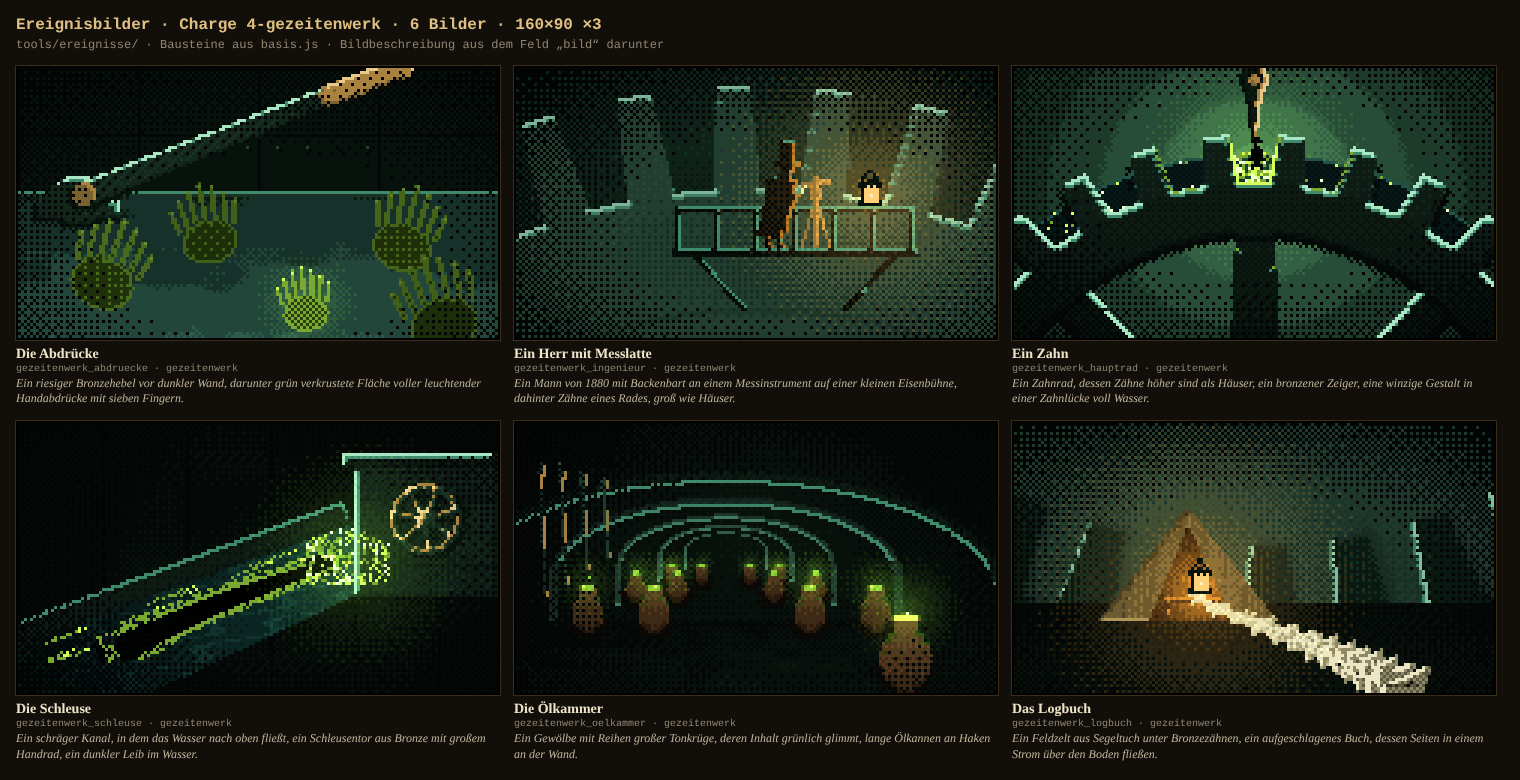
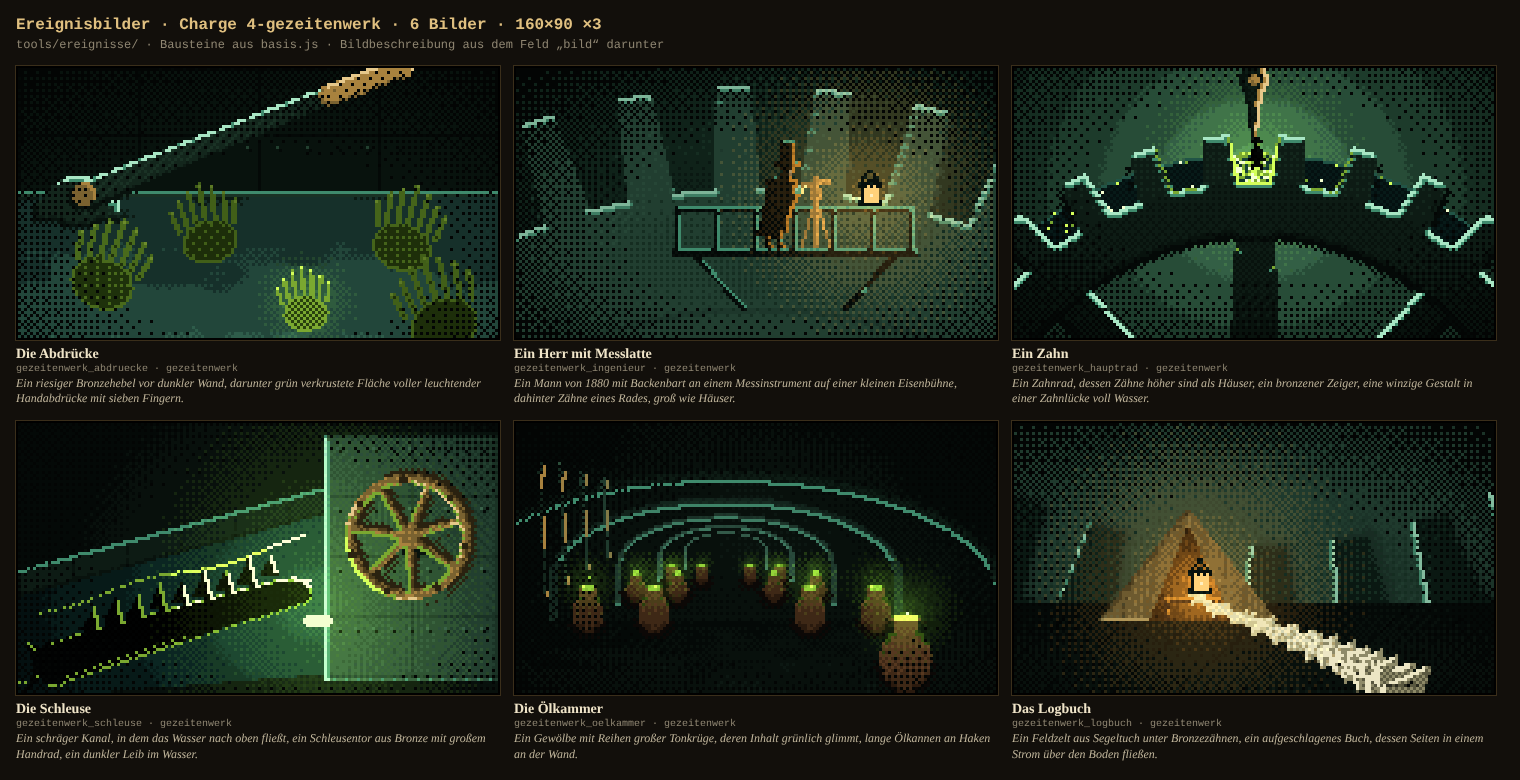
Zugabe: Ereignisbild Schleuse neu (Note 4)
Claude-Session: https://claude.ai/code/session_01TghvEfjLh3w7y1uAeKR46M

Changed region(s): [[0.0309, 0.5231, 0.3401, 0.8923], [0.0309, 0.7077, 0.0618, 0.7385]]

diff --git a/tools/ereignisse/bilder/gezeitenwerk.js b/tools/ereignisse/bilder/gezeitenwerk.js
@@ -173,41 +173,53 @@ module.exports = {
     // Ein schräger Kanal, in dem das Wasser nach oben fließt, ein Schleusentor aus Bronze mit großem Handrad, ein dunkler Leib im Wasser.
     gezeitenwerk_schleuse(K) {
       const { B } = K;
-      K.fuell(NASS, (x, y) => .2 + (B.fbm(x * .04, y * .04, K.seed, 2) - .5) * .2 + (x % 28 < 1 ? -.1 : 0));
-      // Kanal: von links unten schräg hinauf nach rechts zum Tor; Mauern links/rechts
-      const kan = K.maske(); kan.poly([[0, 90], [0, 74], [110, 34], [124, 40], [124, 52], [44, 90]]);
-      const tor = { x: 112, y0: 14, y1: 58 };
-      // Seitenwände des Kanals
-      const wand = K.maske(); wand.poly([[0, 66], [108, 26], [112, 34], [0, 76]]);
-      K.form(wand, 0, { k: BRONZE.slice(0, 6), r: RAND, ton: 1.8, fase: 1, rand: 1, L: [0, -1], muster: (x, y) => ((x + Math.round(y * 2.7)) % 14 < 1 ? -.8 : 0) });
-      // Wasser im Kanal: leuchtende Schlieren laufen bergauf (zum Tor hin heller)
-      const LW = (x, y) => Math.max(0, x / 124);
-      K.feld(0, 30, 130, 90, WASSER, (x, y) => kan.has(x, y) ? .15 + LW(x, y) * .55 + (Math.sin((x * .9 + y * 2.4) * .35 + Math.sin(y * .7) * 2) > .7 ? .2 : 0) : -1);
-      for (let i = 0; i < 22; i++) {
-        let x = K.r.f(4, 110), y = 0; const y0 = 74 - x * .37 + K.r.f(2, 14);
-        const len = K.r.f(4, 10);
-        for (let k = 0; k < len; k++) { const px = x + k * 1.6, py = y0 - k * .6; if (!kan.has(px, py)) break; K.set(px, py, k > len - 2 ? PHOS : PHOS_M); }
+      const gx = 102, gy = 60;   // Leuchten am Fuß des Tors, wo das Wasser in die Kammer drückt (die helle Stelle)
+      // Hintergrund: ruhiges, nasses Schwarzgrün
+      K.fuell(NASS, (x, y) => ruhig(.15 + Math.max(0, 1 - Math.hypot(x - gx, y - gy) / 110) * .35, NASS.length - 1));
+      // Kanal: von links unten schräg hinauf nach rechts zum Tor; obere Kanalmauer als Bronzeband
+      const steig = .27, oben = x => 58 - x * steig, unten = x => 92 - x * steig * .3;
+      const wand = K.maske(); wand.fn(0, 0, 104, 90, (x, y) => y < oben(x) && y >= oben(x) - 9);
+      K.form(wand, 0, { k: BRONZE.slice(0, 6), r: RAND, ton: 2, fase: 1, rand: 1, L: [0, -1], lichtVon: [gx, gy], muster: (x, y) => ((x % 18) < 1 ? -.9 : 0) });
+      const kan = K.maske(); kan.fn(0, 0, 104, 92, (x, y) => y >= oben(x) && y < unten(x));
+      // Wasser: ruhig, zum Tor hin heller
+      const LW = (x, y) => Math.pow(Math.max(0, 1 - Math.hypot(x - gx, (y - gy) * 1.3) / 120), 1.2);
+      K.feld(0, 0, 104, 92, WASSER, (x, y) => kan.has(x, y) ? ruhig(.12 + LW(x, y) * .75, WASSER.length - 1, .12) : -1);
+      // Zwei, drei lange Leuchtschlieren laufen bergauf, zum Tor hin heller
+      for (const [x0, dy, len] of [[4, 6, 92], [20, 20, 78], [0, 28, 60]]) {
+        for (let x = x0; x < x0 + len && x < 103; x++) {
+          const y = Math.round(oben(x) + dy + Math.sin(x * .12 + dy) * 1.2);
+          if (!kan.has(x, y)) continue;
+          const q = (x - x0) / len; if (B.bay(x, y) > .35 + q) continue;
+          K.set(x, y, q > .85 ? PHOS_K : q > .5 ? PHOS : PHOS_M);
+        }
       }
-      // Der dunkle Leib im Wasser: lang, regungslos, schräg im Strom vor dem Tor
-      const leib = K.maske(); leib.pfad([[38, 74], [52, 67], [68, 60], [84, 54], [98, 49]], 5.5, 3); leib.ell(101, 47, 5, 3.6);
-      leib.poly([[34, 76], [24, 72], [28, 80]]);   // Schwanzflosse
-      K.form(leib, 0, { k: ['#000000', '#010202', '#030505', '#060a08'], ton: 1, fase: 0, rand: 0, verlauf: -1 });
-      // Wasser schäumt leuchtend um den Leib, Kante zum Tor hin hell
-      for (let y = leib.y0 - 2; y <= leib.y1 + 2; y++) for (let x = leib.x0 - 2; x <= leib.x1 + 2; x++) if (!leib.has(x, y) && kan.has(x, y) && (leib.has(x, y + 2) || leib.has(x - 2, y)) && K.r() < .5) K.set(x, y, PHOS_M);
-      K.kante(leib, 118, 40, 110, [PHOS_M, PHOS_K], { min: -.2, nah: .5 });
-      // Das Schleusentor: Bronzeplatte, Nieten, das Handrad mit sieben Speichen und Fingermulden
-      const t = K.maske(); t.rect(tor.x, tor.y0, 48, tor.y1 - tor.y0); t.rect(tor.x - 4, tor.y0 - 4, 52, 5);
-      K.form(t, 0, { k: BRONZE, r: RAND, ton: 2.4, fase: 1, rand: 2, schatten: 2, L: [-.8, -.6], muster: (x, y) => ((y - tor.y0) % 11 < 1 ? -.8 : 0) + (B.fbm(x * .1, y * .1, 4, 2) - .5) * .8 });
-      const hx = 136, hy = 32, hr = 12;
-      const hrad = K.maske(); hrad.ell(hx, hy, hr, hr); hrad.ell(hx, hy, hr - 2.2, hr - 2.2, 0);
-      for (let i = 0; i < 7; i++) { const a = i / 7 * TAU - .3; hrad.kap(hx, hy, hx + Math.cos(a) * (hr - 1), hy + Math.sin(a) * (hr - 1), 1, .8); }
-      hrad.ell(hx, hy, 2.6, 2.6);
-      K.form(hrad, 0, { k: BRONZE.slice(1), r: MESS, ton: 3, fase: 1, rand: 2, schatten: 2, L: [-.8, -.6] });
-      for (let i = 0; i < 7; i++) { const a = (i + .5) / 7 * TAU - .3; K.set(hx + Math.cos(a) * (hr - 1), hy + Math.sin(a) * (hr - 1), BLANK[3]); }
-      // Leuchten vor dem Tor, wo das Wasser in die Kammer drückt
-      K.licht(112, 44, 40, PHOS_G, .9);
-      leuchten(K, 96, 34, 124, 54, (x, y) => kan.has(x, y) ? 3 : 0);
-      K.vignette(.6, { cx: 90, cy: 46 });
+      // Der dunkle Leib: lang, regungslos, im Strom vor dem Tor; Rückenkamm bricht die Oberfläche
+      const leib = K.maske();
+      leib.pfad([[12, 80], [30, 74], [50, 68], [70, 62], [88, 57]], 7, 5); leib.ell(92, 56, 6, 4.6);
+      leib.poly([[14, 80], [2, 72], [6, 82], [2, 90]]);   // Schwanzflosse
+      for (let i = 0; i < 9; i++) { const x = 24 + i * 7.4, y = oben(x) + 15 - (x - 12) * .03; leib.poly([[x - 3, y + 3], [x + 1.5, y - 5 - (i % 2) * 2], [x + 4, y + 3]]); }
+      K.form(leib, 0, { k: ['#000000', '#010202', '#030605', '#071009'], ton: 1.2, fase: 0, rand: 0, verlauf: -1.4 });
+      K.kante(leib, gx + 4, gy - 30, 140, [PHOS_M, PHOS_K], { min: .1, nah: .45 });
+      // Wasserlinie: heller Saum, wo der Leib die Oberfläche bricht
+      for (let x = leib.x0; x <= leib.x1; x++) for (let y = leib.y1; y >= leib.y0; y--) if (leib.has(x, y) && !leib.has(x, y + 1) && kan.has(x, y + 1)) { if (B.bay(x, y) < .6) K.set(x, y + 1, PHOS_M); break; }
+      // Das Schleusentor: große Bronzefläche mit Nietreihen, rechts im Bild
+      const tx0 = 102;
+      const tor = K.maske(); tor.rect(tx0, 4, 58, 82);
+      K.form(tor, 0, { k: BRONZE.slice(1).concat(['#4c7a5c']), r: RAND, ton: 5, fase: 1, rand: 2, schatten: 2, lichtVon: [gx - 10, gy], verlauf: -.5, verlaufX: -1.2, muster: (x, y) => ((y - 4) % 20 < 1 ? -1 : 0) + ((x - tx0) % 29 < 1 ? -.8 : 0) });
+      for (let y = 8; y < 86; y += 20) for (let x = tx0 + 4; x < 160; x += 6) { K.set(x, y, BRONZE[7]); K.set(x + 1, y + 1, BRONZE[0]); }
+      K.licht(gx, gy, 60, PHOS_G, 1, { oval: .8, exp: 1.2 });
+      // Das Handrad: groß vor dem Tor, sieben Speichen und sieben Fingermulden am Kranz
+      const hx = 130, hy = 38, hr = 21;
+      const achse = K.maske(); achse.ell(hx + 2, hy + 2, 5, 5); K.form(achse, 0, { k: BRONZE.slice(0, 4), r: [], ton: 1, fase: 0, rand: 0 });
+      const hrad = K.maske(); hrad.ell(hx, hy, hr, hr); hrad.ell(hx, hy, hr - 3.4, hr - 3.4, 0);
+      for (let i = 0; i < 7; i++) { const a = i / 7 * TAU - .3; hrad.kap(hx, hy, hx + Math.cos(a) * (hr - 2), hy + Math.sin(a) * (hr - 2), 1.6, 1.1); }
+      hrad.ell(hx, hy, 4, 4);
+      K.form(hrad, 0, { k: BLANK, r: MESS, ton: 2.2, fase: 1, rand: 2, schatten: 2, lichtVon: [gx - 10, gy] });
+      K.kante(hrad, gx - 6, gy, 70, [PHOS_M, PHOS], { nah: .4 });
+      for (let i = 0; i < 7; i++) { const a = (i + .5) / 7 * TAU - .3, m = K.maske(); m.ell(hx + Math.cos(a) * (hr - 1.7), hy + Math.sin(a) * (hr - 1.7), 1.4, 1.4); K.form(m, 0, { k: ['#0e0b05', '#2a2210'], r: [], ton: 1, fase: 0, rand: 0 }); }
+      // Leuchten am Fuß des Tors, wo das Wasser hineindrückt
+      const kern = K.maske(); kern.ell(gx - 2, gy + 6, 5, 2.2); K.form(kern, 0, { k: [PHOS_M, PHOS, PHOS_K], r: [], ton: 2, fase: 0, rand: 0 });
+      K.vignette(.35, { cx: 96, cy: 50, innen: .65 });
     },
 
     // Ein Gewölbe mit Reihen großer Tonkrüge, deren Inhalt grünlich glimmt, lange Ölkannen an Haken an der Wand.
